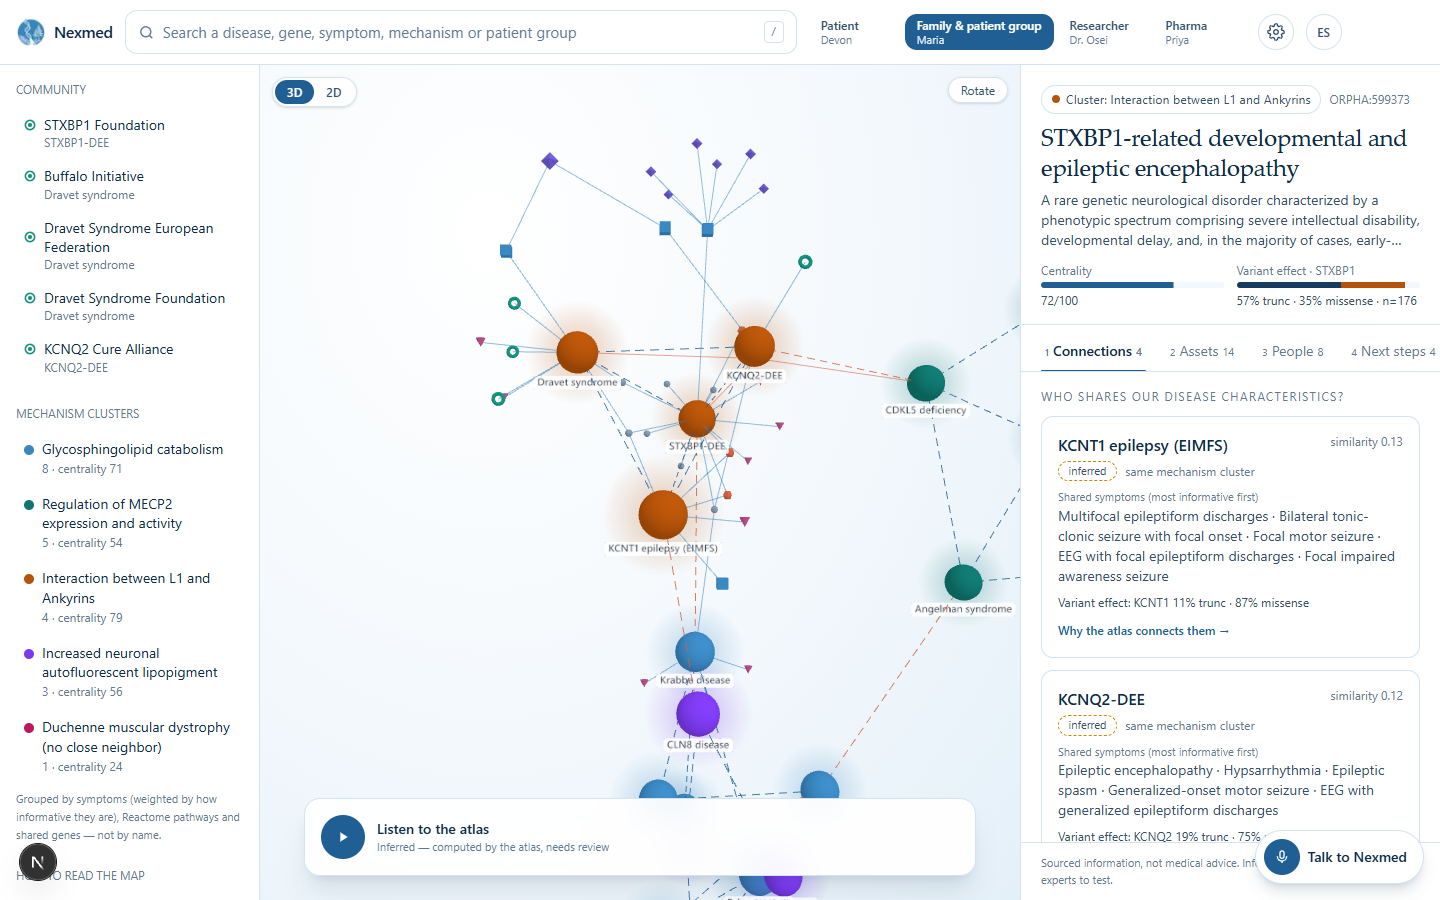
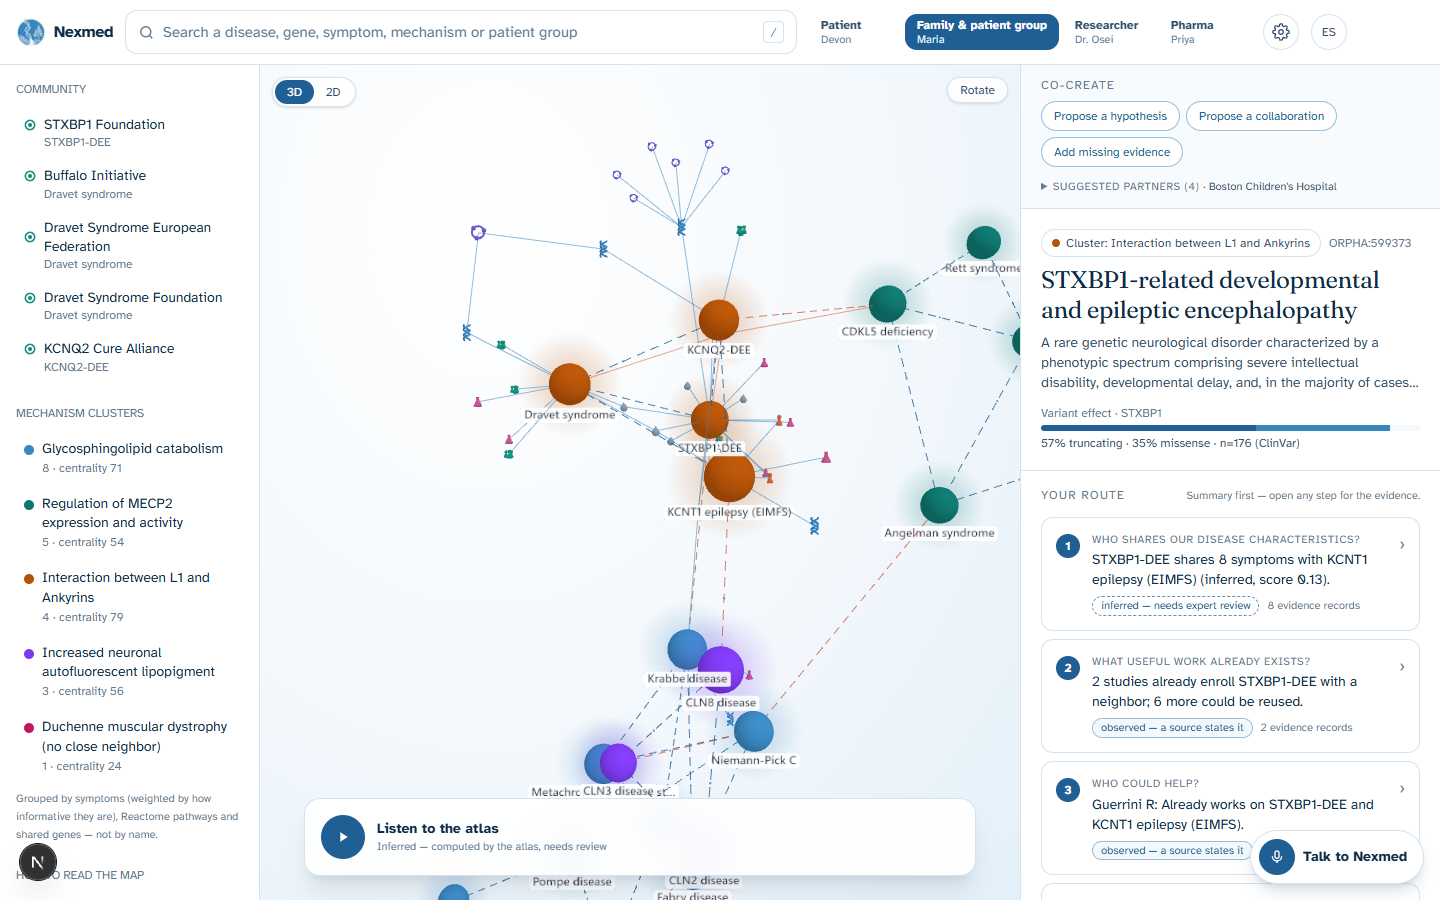
feat(explorer): Blender glyphs for non-disease nodes, ExtractPanel for PubMed evidence, Nedamex naming in explorer strings

diff --git a/src/components/atlas/EdgeInspector.tsx b/src/components/atlas/EdgeInspector.tsx
@@ -14,13 +14,14 @@ import type { Draft } from "./proposals";
 import { externalUrl } from "./links";
 import type { PersonaId } from "@/lib/agents/profiles";
 import { ExplainButton } from "@/components/ai/ExplainButton";
+import { ExtractPanel } from "@/components/ai/ExtractPanel";
 import { api } from "./api";
 
 type Detail = NonNullable<ReturnType<typeof edgeDetail>>;
 
 const SOURCE_NAME: Record<string, string> = {
   orphanet: "Orphanet", hpo: "HPO", monarch: "Monarch", clinvar: "ClinVar", ctgov: "ClinicalTrials.gov", opentargets: "Open Targets",
-  reactome: "Reactome", pubmed: "PubMed", nih_reporter: "NIH RePORTER", patient_orgs: "Patient org (official site)", atlas_analysis: "Nexmed analysis", openai_extraction: "OpenAI extraction",
+  reactome: "Reactome", pubmed: "PubMed", nih_reporter: "NIH RePORTER", patient_orgs: "Patient org (official site)", atlas_analysis: "Nedamex analysis", nexmed_analysis: "Nedamex analysis", community: "Nedamex community drafts (not evidence)", fda: "FDA", openai_extraction: "OpenAI extraction",
 };
 
 export function KindBadge({ kind, t }: { kind: string; t: Dict }) {
@@ -36,7 +37,7 @@ export function KindBadge({ kind, t }: { kind: string; t: Dict }) {
 
 const KIND_SENTENCE: Record<LinkKind, { en: string; es: string }> = {
   observed: { en: "A cited source states this connection.", es: "Una fuente citada afirma esta conexión." },
-  inferred: { en: "Nexmed computed this from observed edges. It is a hypothesis for experts to test, not a finding.", es: "Nexmed lo calculó a partir de aristas observadas. Es una hipótesis para que la prueben expertos, no un hallazgo." },
+  inferred: { en: "Nedamex computed this from observed edges. It is a hypothesis for experts to test, not a finding.", es: "Nedamex lo calculó a partir de aristas observadas. Es una hipótesis para que la prueben expertos, no un hallazgo." },
   extracted: { en: "An AI model extracted this from the cited paper. An expert has not reviewed it yet.", es: "Un modelo de IA lo extrajo del artículo citado. Aún no lo ha revisado un experto." },
   proposed: { en: "A community member proposed this. It is a draft, not evidence.", es: "Lo propuso un miembro de la comunidad. Es un borrador, no evidencia." },
 };
@@ -134,7 +135,8 @@ export function EdgeInspector({ edgeId, t, locale, persona, onClose, onFocusDise
             </ul>
             {/* ai lane: verified plain-language explanation of this edge (simple language follows usePrefs()). */}
             <div className="mt-3"><ExplainButton edgeIds={[d.edge.id]} persona={persona} locale={locale} onHighlight={onHighlight} /></div>
-            {/* TODO(ai merge): <ExtractPanel pmid={ev.external_id} locale={locale} /> for PubMed evidence once it is on main. */}
+            {/* ai lane: OpenAI extraction from the first cited PubMed paper (results are "needs expert review"). */}
+            {(() => { const pm = d.edge.evidence.find((ev) => ev.source === "pubmed"); return pm ? <div className="mt-3"><ExtractPanel pmid={pm.external_id} locale={locale} /></div> : null; })()}
           </section>
 
           <section>

diff --git a/src/components/atlas/GraphCanvas3D.tsx b/src/components/atlas/GraphCanvas3D.tsx
@@ -15,6 +15,7 @@ import SpriteText from "three-spritetext";
 import type { GLink, GNode } from "@/lib/atlas/store";
 import { CANVAS, KIND_STYLE, TYPE_COLOR, kindOf } from "./colors";
 import { endId, trim, type GraphCanvasProps } from "./graphProps";
+import { useGlyphGeometries } from "@/components/three/glyphs";
 
 type N = NodeObject<GNode>;
 type L = LinkObject<GNode, GLink>;
@@ -64,6 +65,8 @@ export default function GraphCanvas3D({ view, highlightNodes, highlightEdges, se
   const [size, setSize] = useState({ w: 800, h: 600 });
   const [hover, setHover] = useState<string | null>(null);
   const [spin, setSpin] = useState(false);
+  // Blender glyphs per entity type (brand lane); procedural primitives until loaded / if loading fails.
+  const glyphs = useGlyphGeometries();
   const settled = useRef(false);
   const stopFramed = useRef(false);
 
@@ -92,9 +95,11 @@ export default function GraphCanvas3D({ view, highlightNodes, highlightEdges, se
     const r = radiusOf(n);
     const group = new THREE.Group();
     const mat = new THREE.MeshLambertMaterial({ color, transparent: true, opacity: n.draft ? 0.35 : 1, wireframe: !!n.draft });
-    const mesh = new THREE.Mesh(geo[n.type] ?? geo.default, mat);
-    mesh.scale.setScalar(r);
-    if (n.type === "trial") mesh.rotation.x = Math.PI;
+    // Diseases stay spheres (cluster color + centrality read best); other types use the glyph when available.
+    const glyph = !isDisease ? glyphs?.[n.type] : undefined;
+    const mesh = new THREE.Mesh(glyph ?? geo[n.type] ?? geo.default, mat);
+    mesh.scale.setScalar(glyph ? r * 1.7 : r);
+    if (n.type === "trial" && !glyph) mesh.rotation.x = Math.PI;
     const haloSprite = new THREE.Sprite(new THREE.SpriteMaterial({ map: halo, color, transparent: true, opacity: isDisease ? 0.28 : 0, depthWrite: false }));
     haloSprite.scale.setScalar(r * 5);
     const ringSprite = new THREE.Sprite(new THREE.SpriteMaterial({ map: ring, color: new THREE.Color(n.bridge ? CANVAS.bridge : CANVAS.ink), transparent: true, opacity: 0, depthWrite: false }));
@@ -115,9 +120,9 @@ export default function GraphCanvas3D({ view, highlightNodes, highlightEdges, se
     label.renderOrder = 10;
     group.add(haloSprite, mesh, ringSprite, label);
     nodeParts.current.get(String(n.id))?.mat.dispose();
-    nodeParts.current.set(String(n.id), { group, mesh, mat, halo: haloSprite, ring: ringSprite, label, base: r });
+    nodeParts.current.set(String(n.id), { group, mesh, mat, halo: haloSprite, ring: ringSprite, label, base: glyph ? r * 1.7 : r });
     return group;
-  }, []);
+  }, [glyphs]);
 
   const linkObject = useCallback((l: L) => {
     const s = KIND_STYLE[kindOf(l.kind)];

diff --git a/src/components/atlas/colors.ts b/src/components/atlas/colors.ts
@@ -20,7 +20,7 @@ export const TYPE_COLOR: Record<string, string> = {
 export type LinkKind = "observed" | "inferred" | "extracted" | "proposed";
 export const KIND_STYLE: Record<LinkKind, { color: string; dash: number[] | null; opacity: number }> = {
   observed: { color: "#3a86bf", dash: null, opacity: 0.55 },      // solid · a source states it
-  inferred: { color: "#1f5f94", dash: [6, 4], opacity: 0.8 },     // dashed · Nexmed analysis
+  inferred: { color: "#1f5f94", dash: [6, 4], opacity: 0.8 },     // dashed · Nedamex analysis
   extracted: { color: "#6d5bd0", dash: [1.5, 3], opacity: 0.85 }, // dotted · AI-extracted, needs review
   proposed: { color: "#8ea3b6", dash: [3, 5], opacity: 0.35 },    // ghost · community draft, never evidence
 };

diff --git a/src/app/atlas/page.tsx b/src/app/atlas/page.tsx
@@ -5,7 +5,7 @@ import { atlas, loadAtlas, stats } from "@/lib/atlas/store";
 import type { Locale } from "@/lib/i18n";
 
 export const metadata: Metadata = {
-  title: "Nexmed · Rare disease atlas",
+  title: "Nedamex · Rare disease atlas",
   description: "Search a rare disease and follow it to a shared mechanism, an existing asset, a collaborator and a next step — every edge with its source.",
 };
 
